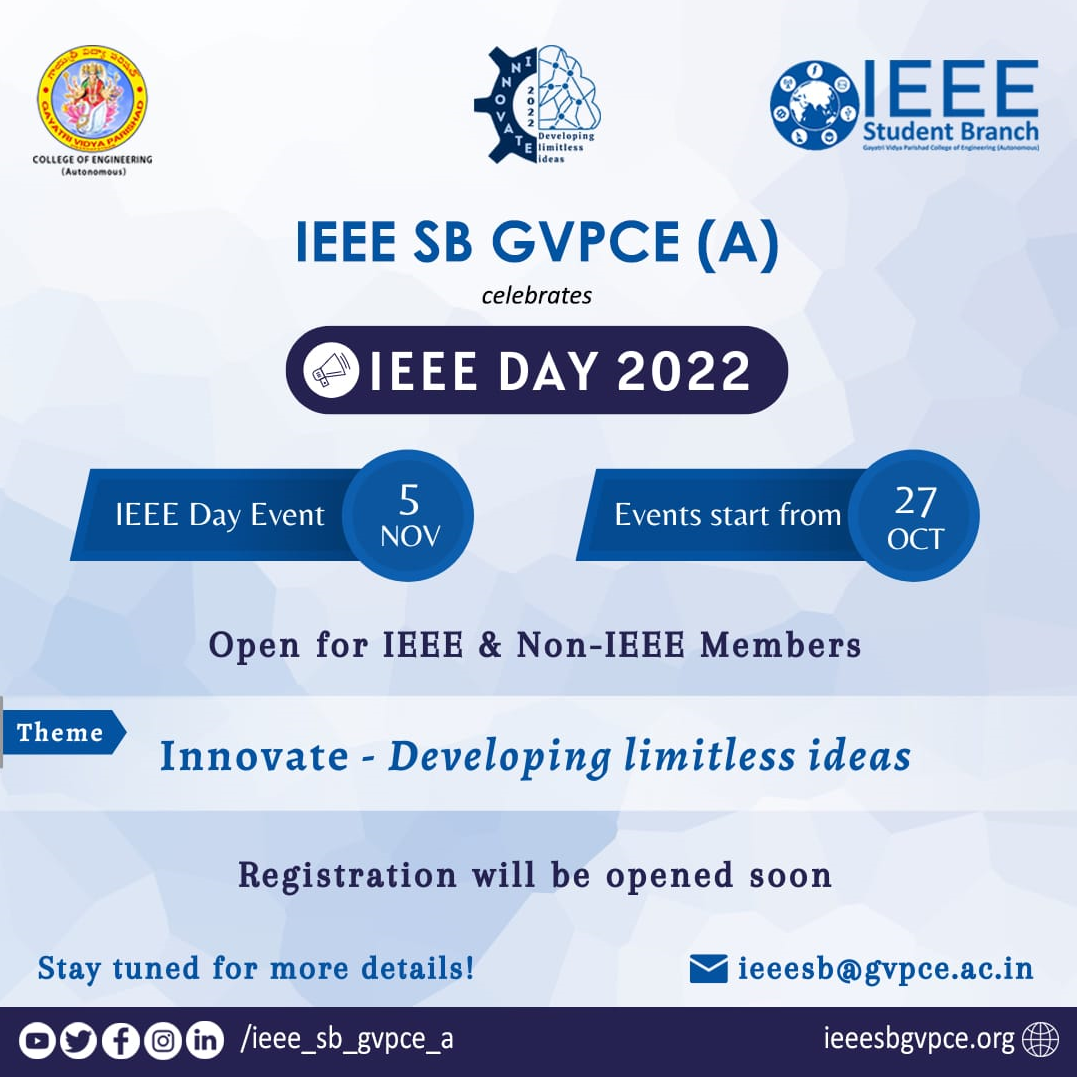
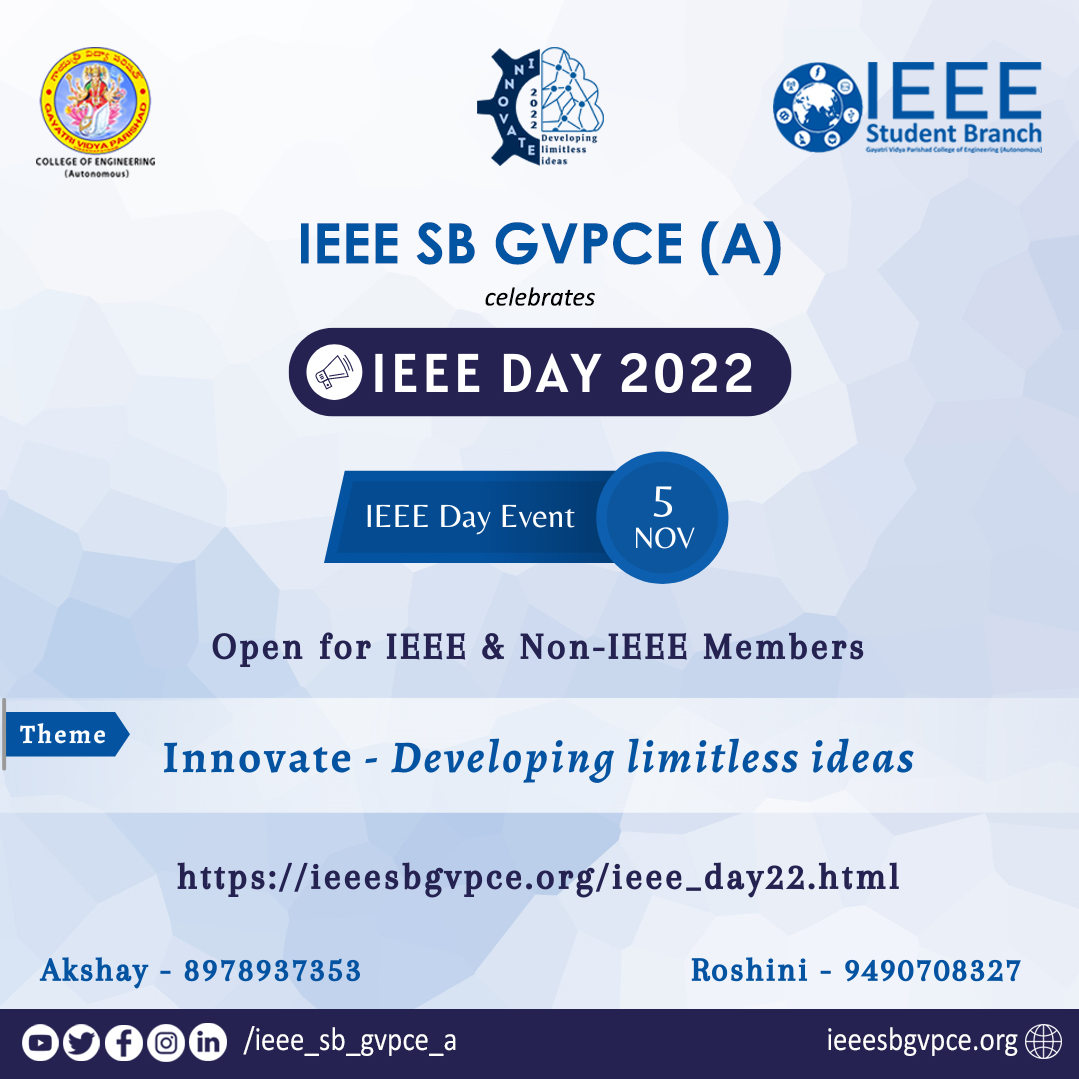
update ieee_day22.html

diff --git a/js/id_script4.js b/js/id_script4.js
@@ -9,6 +9,7 @@ let yescoupon = document.getElementById("yescoupon");
 let nocoupon = document.getElementById("nocoupon");
 let modalbtn = document.getElementById("modalbtn");
 let seletedeventslist = document.getElementById("selectedeventslist");
+let seletedeventslist2 = document.getElementById("selectedeventslist2");
 let finaltotaliee = document.getElementById("finaltotaliee");
 let finaltotalnoniee = document.getElementById("finaltotalnoniee");
 let couponapply = document.getElementById("couponapply");
@@ -130,6 +131,7 @@ function closefunc() {
 
 modalbtn.addEventListener("click", (e) => {
   seletedeventslist.innerHTML = "";
+  seletedeventslist2.innerHTML = "";
   // for (let i = 0; i < eventnamesarray.length; i++) {
 
   //  if(count>1)
@@ -141,10 +143,12 @@ modalbtn.addEventListener("click", (e) => {
 
   // }
   eventnamesarray.forEach(function (value) {
-    var li = document.createElement("li");
-
-    li.appendChild(document.createTextNode(value));
-    seletedeventslist.appendChild(li);
+    var li1 = document.createElement("li");
+    var li2 = document.createElement("li");
+    li1.appendChild(document.createTextNode(value));
+    li2.appendChild(document.createTextNode(value));
+    seletedeventslist.appendChild(li1);
+    seletedeventslist2.appendChild(li2);
   });
   if (ieesum >= 300) {
     finaltotaliee.innerText = Math.round(ieesum * (60 / 100));

diff --git a/events/2022/ieee_day22/56_ieee_day22.html b/events/2022/ieee_day22/56_ieee_day22.html
@@ -101,16 +101,16 @@
 
                     <div class="single-detail">
 
-                        <a href="https://gvpce.webex.com/gvpce/j.php?RGID=r7926ca3708219b110345dae289cf2770" class="btn"
-                            role="button" aria-pressed="true" target="_blank">Register Here</a>
+                        <a href="https://docs.google.com/forms/d/e/1FAIpQLSfQqhWKM4XOcR2hGnr64ihALpSHHjdF9EeHwS2UaMaUK7EE2g/viewform"
+                            class="btn" role="button" aria-pressed="true" target="_blank">Register Here</a>
                     </div>
 
                     <div class="single-detail">
                         <h3 class="heading">Contact</h3>
                         <p class="matter">
                         <ul style="list-style: none;">
-                            <li>Akshay: <a href="tel:+918179622769">+91 8179622769</a></li>
-                            <li>Roshini: <a href="tel:+919182835941">+91 9182835941</a></li>
+                            <li>Akshay: <a href="tel:+918978937353">+91 8978937353</a></li>
+                            <li>Roshini: <a href="tel:+919490708327">+91 9490708327</a></li>
                         </ul>
                         </p>
                     </div>

diff --git a/ieee_day22.html b/ieee_day22.html
@@ -1443,6 +1443,12 @@
 
           </div>
           <div class="tab-pane fade " id="no" role="tabpanel" aria-labelledby="nocoupon">
+
+            <div class="mt-4">
+              <h4 class="ml-3" style="color: #055fad!important; ">Selected Events are:</h4>
+              <ol id="selectedeventslist2" class="text-center" type="1">
+              </ol>
+            </div>
             <p class="centered" style="animation:0s;color:black!important;font-family:'Merriweather',serif!important;">
               Amount (For IEEE Members): ₹<span id="finaltotaliee"></span></h6>
             <p class="centered" style="animation:0s;color:black!important;font-family:'Merriweather',serif!important;">
